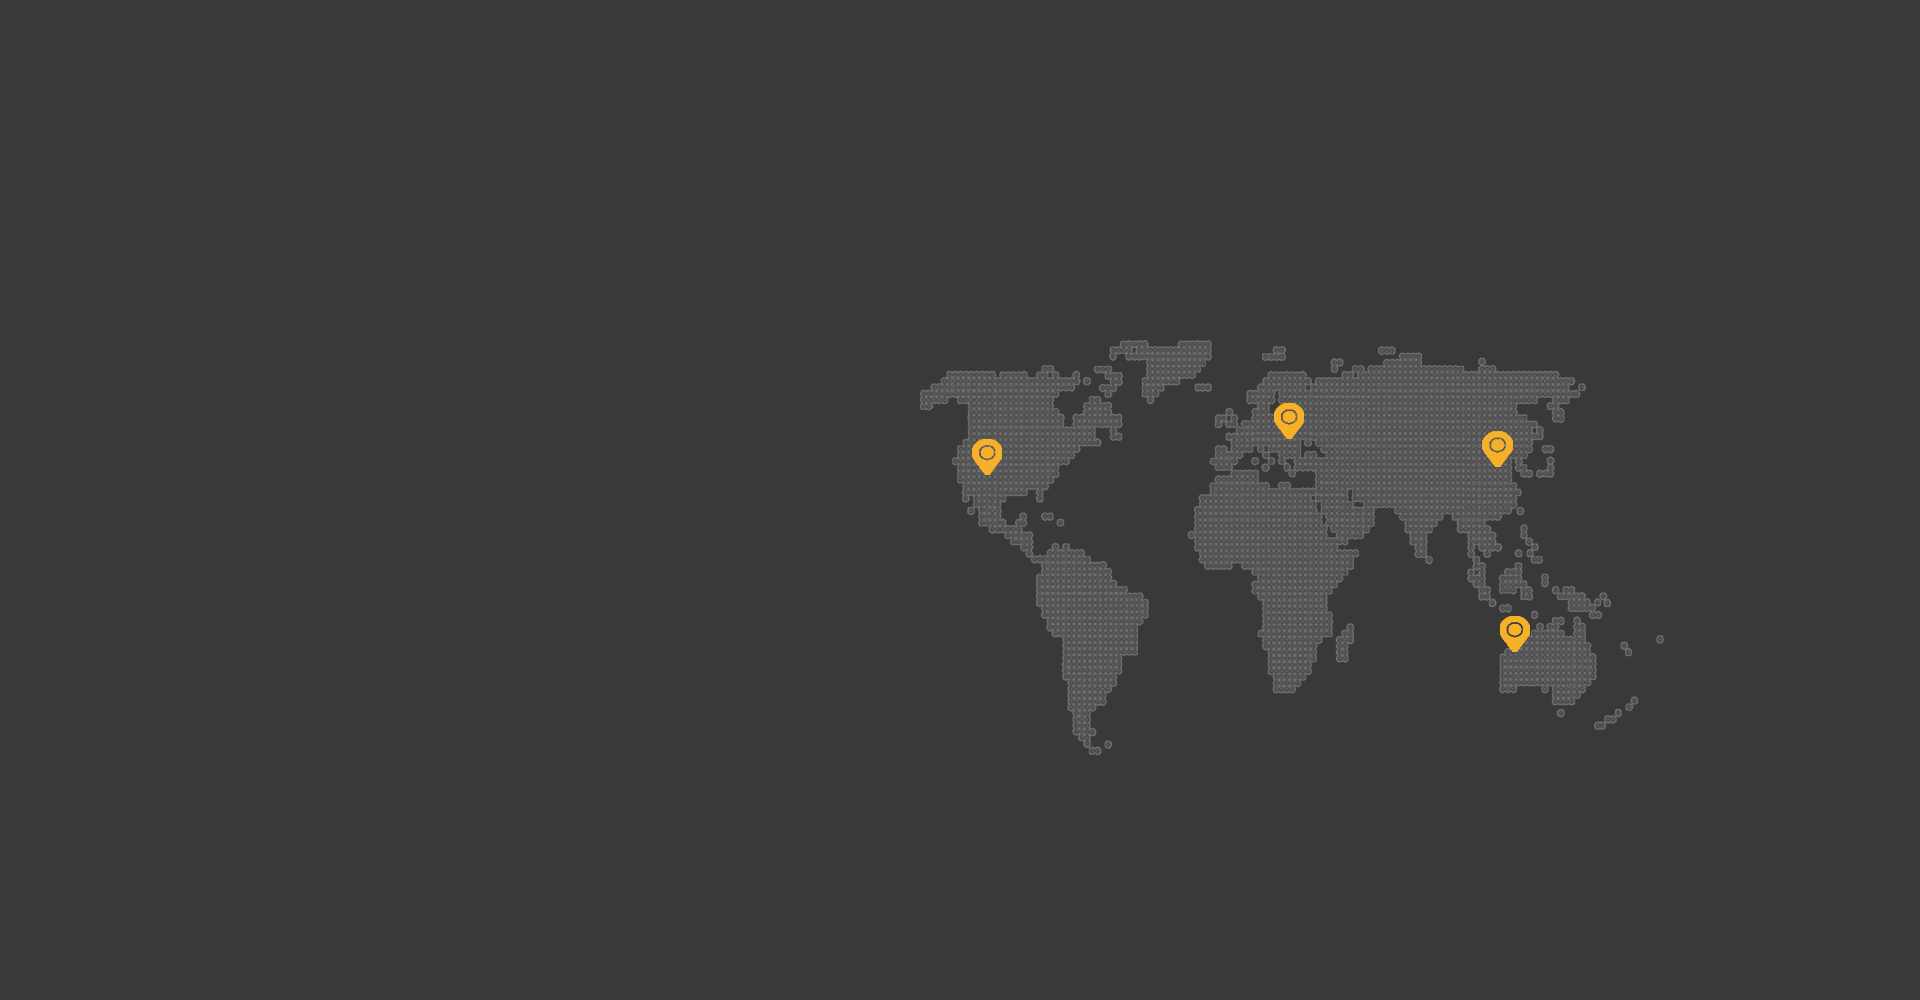
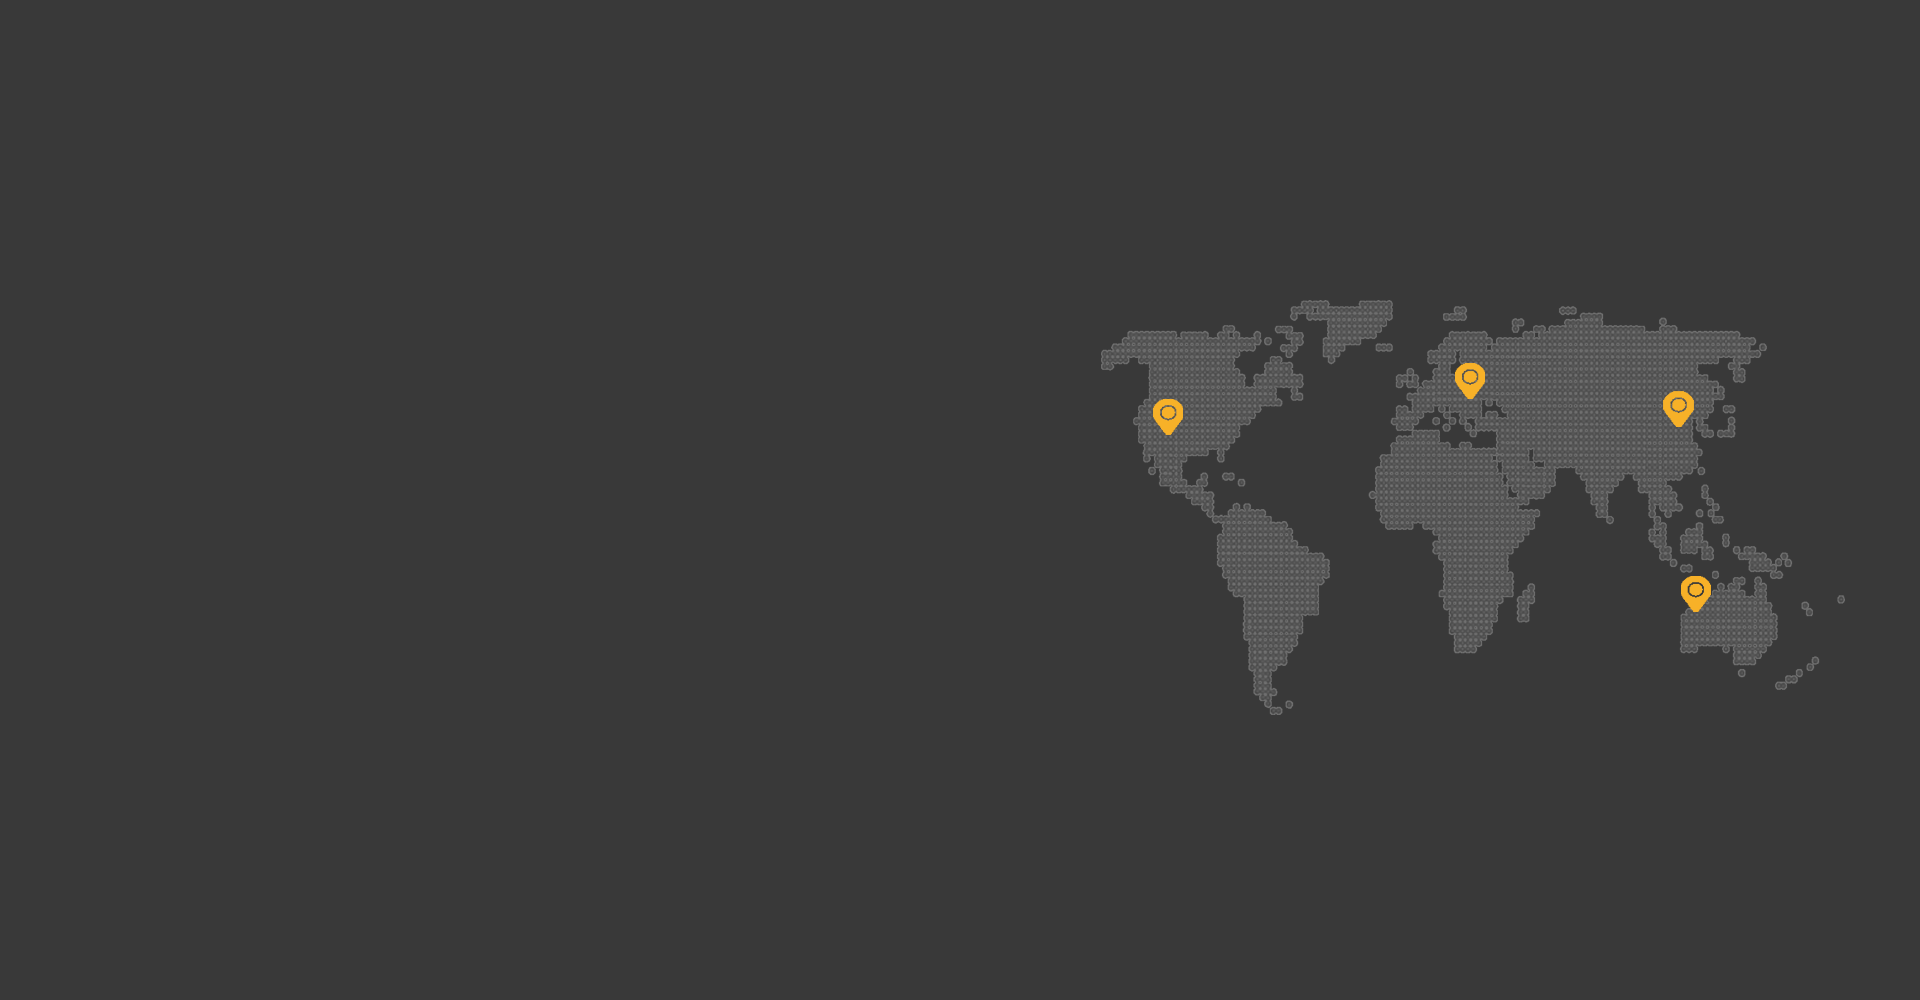
change as required

Changed region(s): [[0.4688, 0.279, 0.9375, 0.744]]

diff --git a/css/index.css b/css/index.css
@@ -151,14 +151,15 @@
   height:1000px;
   float:left;
   background-image: url(../img/index/contact/background.png);
+  background-position: right;
 }
 
 .country{
   float:left;
   position:relative;
   top:100px;
-  left:15%;
-  width:300px;
+  left:12%;
+  width:280px;
 }
 
 .country-icon{
@@ -181,12 +182,12 @@
 
 .info-country{
   float:left;
-  width:400px;
+  width:352px;
   margin-top:50px;
 }
 
 .country-info{
-  width: 300px;
+  width: 250px;
   margin-left:20px;
   margin-top:10px;
   color:#FFF;
@@ -350,13 +351,20 @@
 
 .period-introduction-wrapper{
   float:left;
+  position:relative;
+  left:35%;
+  top:-200px;
+  width:350px;
+  background-image: url(../img/index/hill1pxback.png);
+  background-repeat: repeat-y;
 }
 
 .period-introduction{
   float:left;
   display:none;
-  width:300px;
+  width:250px;
   font-size:18px;
+  margin:10px 0 10px 20px;
 }
 .current-period{
   display:block;

diff --git a/index.html b/index.html
@@ -66,7 +66,13 @@
 				},3000);
 
 
-
+				setInterval(function(){
+					var $next = $(".current-period").removeClass("current-period").next(".period-introduction")
+					if($next.length == 0){
+						$next = $(".period-introduction").eq(0);
+					}
+					$next.addClass("current-period")
+				},2500);
 			});
 		</script>
 	</head>
@@ -79,8 +85,8 @@
 					<li class="menu-button"><a href="#">About Us</a></li>
 					<li class="menu-button"><a href="product.html">Products</a></li>
 					<li class="menu-button"><a href="#">News</a></li>
-					<li class="menu-button"><a href="#">Contact</a></li>
-					<li class="menu-button"><a href="#">Login</a></li>
+					<li class="menu-button"><a href="#">Contact Us</a></li>
+					<li class="menu-button"><a href="#">Log-in</a></li>
 				</ul>
 			</div>
 		</div>

diff --git a/detail-2.html b/detail-2.html
@@ -17,8 +17,8 @@
             <li class="menu-button"><a href="#">About Us</a></li>
             <li class="menu-button"><a href="product.html">Products</a></li>
             <li class="menu-button"><a href="#">News</a></li>
-            <li class="menu-button"><a href="#">Contact</a></li>
-            <li class="menu-button"><a href="#">Login</a></li>
+            <li class="menu-button"><a href="#">Contact Us</a></li>
+            <li class="menu-button"><a href="#">Log-in</a></li>
         </ul>
     </div>
 </div>

diff --git a/detail-3.html b/detail-3.html
@@ -17,8 +17,8 @@
             <li class="menu-button"><a href="#">About Us</a></li>
             <li class="menu-button"><a href="product.html">Products</a></li>
             <li class="menu-button"><a href="#">News</a></li>
-            <li class="menu-button"><a href="#">Contact</a></li>
-            <li class="menu-button"><a href="#">Login</a></li>
+            <li class="menu-button"><a href="#">Contact Us</a></li>
+            <li class="menu-button"><a href="#">Log-in</a></li>
         </ul>
     </div>
 </div>

diff --git a/detail.html b/detail.html
@@ -18,8 +18,8 @@
             <li class="menu-button"><a href="#">About Us</a></li>
             <li class="menu-button"><a href="product.html">Products</a></li>
             <li class="menu-button"><a href="#">News</a></li>
-            <li class="menu-button"><a href="#">Contact</a></li>
-            <li class="menu-button"><a href="#">Login</a></li>
+            <li class="menu-button"><a href="#">Contact Us</a></li>
+            <li class="menu-button"><a href="#">Log-in</a></li>
         </ul>
     </div>
 </div>

diff --git a/product.html b/product.html
@@ -46,8 +46,8 @@
 				<li class="menu-button"><a href="#">About Us</a></li>
 				<li class="menu-button"><a href="product.html">Products</a></li>
 				<li class="menu-button"><a href="#">News</a></li>
-				<li class="menu-button"><a href="#">Contact</a></li>
-				<li class="menu-button"><a href="#">Login</a></li>
+				<li class="menu-button"><a href="#">Contact Us</a></li>
+				<li class="menu-button"><a href="#">Log-in</a></li>
 			</ul>
 		</div>
 	</div>

diff --git a/css/product.css b/css/product.css
@@ -75,14 +75,14 @@
 }
 
 .crystal{
-    width:360px;
-    height:771px;
+    width:374px;
+    height:640px;
     background-image: url(../img/product/crystal.png);
     float:left;
     margin: auto;
     position:absolute;
     left:50%;
-    margin-left:-180px;
+    margin-left:-187px;
     margin-top:50px;
 }
 
